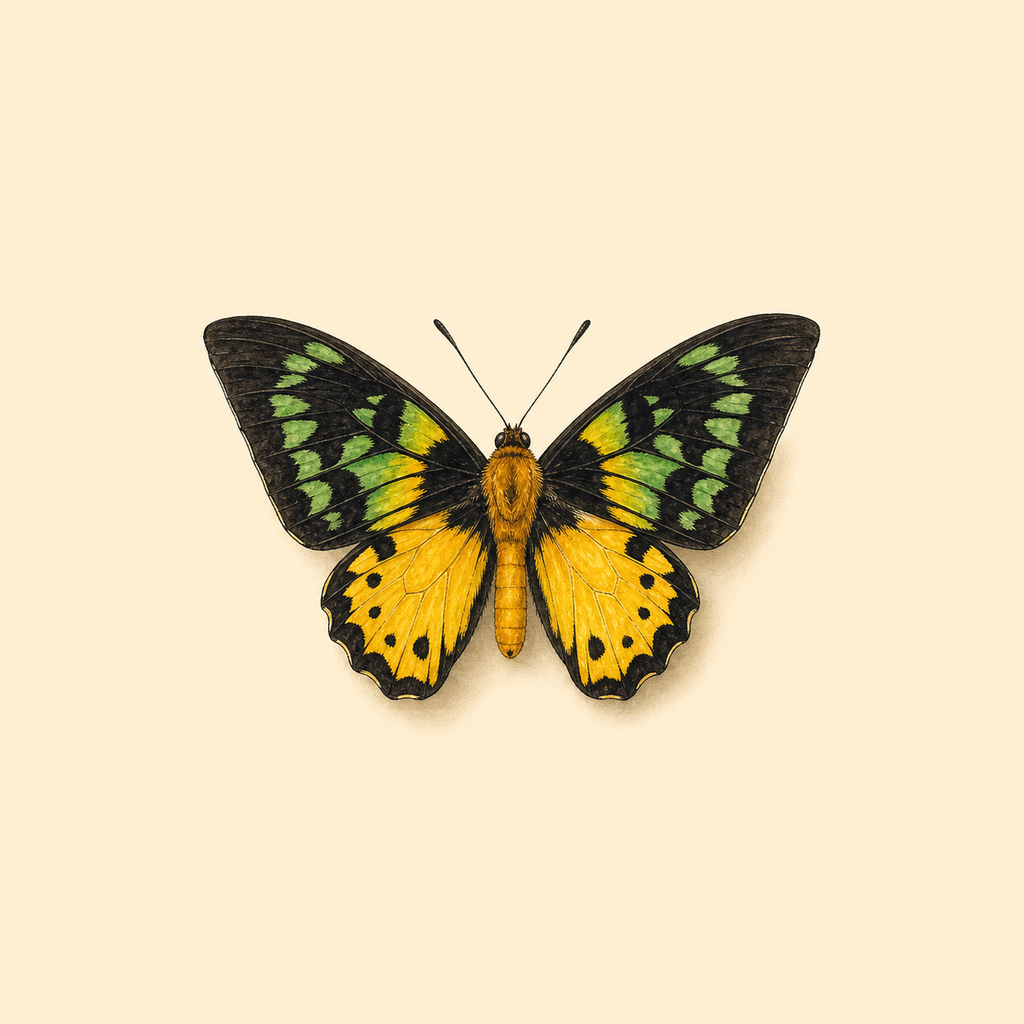
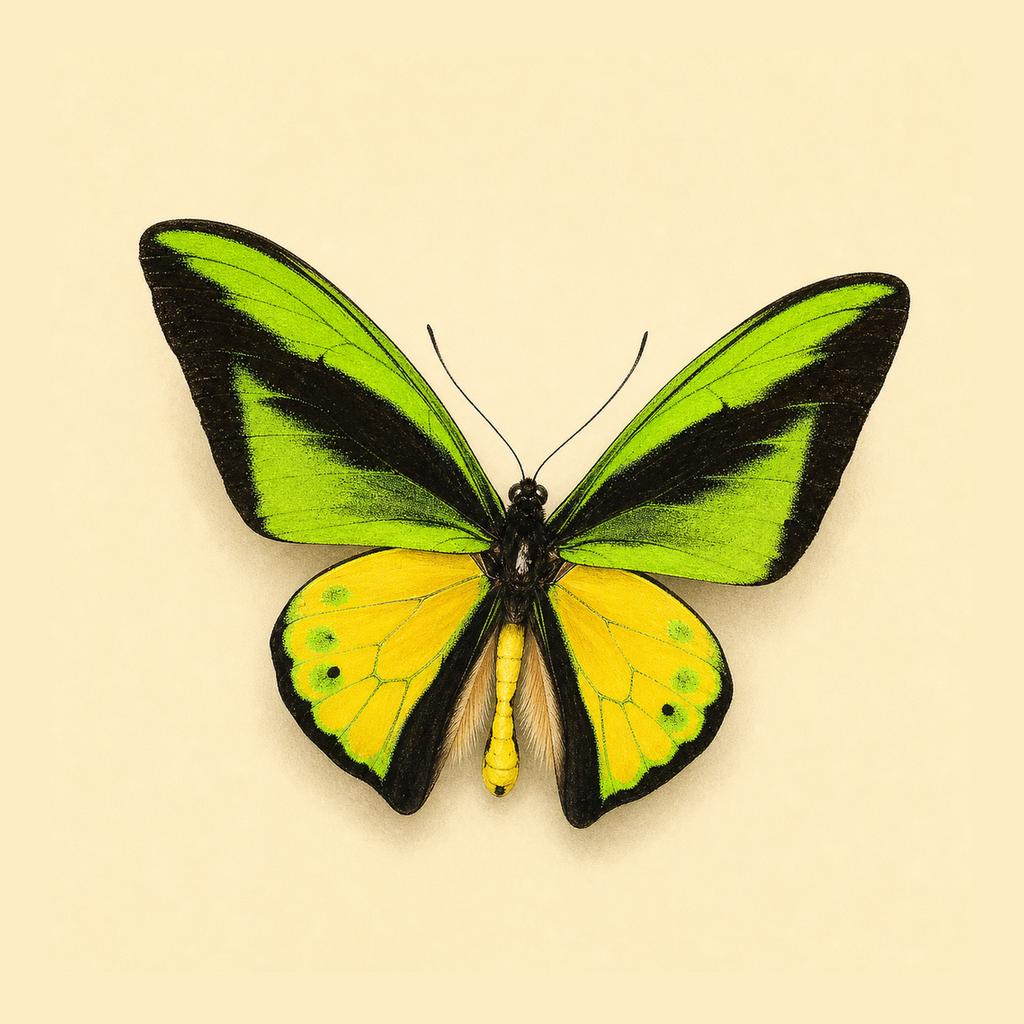
Regenerate picasso-bug + both birdwings true-to-life via photo grounding
- picasso-bug: real Sphaerocoris annulus (discrete ring-spots, not bullseye)
- queen-alexandras-birdwing: faithful male (green bands, emerald hindwings), drawn bigger
- goliath-birdwing: neon-green wedge + golden hindwings (was generic dark butterfly)
- All photo-grounded (image-to-image on real reference specimens)
- ANATOMY strings fixed in build_thumbnail_prompts.py + thumbnail_prompts.json
- Birdwings padded to clear circle crop; all 74 pass validate_bug.py

Changed region(s): [[0.125, 0.1875, 0.9062, 0.8438], [0.5625, 0.3125, 0.5938, 0.3438], [0.5312, 0.3438, 0.5625, 0.375]]

diff --git a/scripts/build_thumbnail_prompts.py b/scripts/build_thumbnail_prompts.py
@@ -52,7 +52,7 @@ ANATOMY = {
     "sunset-moth": "diurnal moth with iridescent rainbow wings showing bands of blue, green, gold, magenta, and crimson, long tails on hindwings, looks more like a butterfly",
     "bee-fly": "fluffy round bumblebee-mimicking fly, golden-orange and black fuzzy body, very long needle-like proboscis extending forward, large clear wings, hovering posture",
     "blue-morpho": "large butterfly with wings spread flat, upper wing surfaces brilliant iridescent metallic electric blue with thin black borders, slender dark body, antennae like fine clubbed wires, wings catch light with structural shimmer",
-    "queen-alexandras-birdwing": "enormous butterfly held at a gentle 3/4 dorsal tilt with wingtips angled downward and curved inward (NOT spread flat corner-to-corner), broad rounded forewings velvet black with cream and golden-yellow zigzag bands, hindwings rich green with gold central patches, plump cream-yellow body, drawn SMALL in frame with generous cream margin so the wide wingspan stays well inside the circle",
+    "queen-alexandras-birdwing": "large male birdwing (Ornithoptera alexandrae) held at a gentle 3/4 dorsal tilt with the long tapered forewings swept downward and curved inward (NOT spread flat corner-to-corner); forewings mostly black crossed by an iridescent yellow-green upper band and a blue-green lower band with a long black oval patch; broader scalloped hindwings emerald-green to turquoise divided by strong black radiating veins with broad black margins; long bright yellow segmented abdomen, black thorax, thin curved black antennae; drawn medium-sized (about 60 percent of frame) with even cream margin so the whole wingspan stays comfortably inside the circle",
     "goliath-birdwing": "large male butterfly held at a gentle angle with wingtips curved inward and downward (NOT spread flat corner-to-corner), deep velvet black wings with brilliant neon yellow-green wedge patches on hindwings and forewing centers, golden-yellow body, broad muscular thorax, drawn SMALL in frame with generous cream margin so the wide wingspan stays well inside the circle",
     "apollo-butterfly": "medium butterfly with wings spread flat, translucent porcelain-white wings with smoky-gray veining, four prominent crimson-red eyespots ringed in black on the hindwings, white fluffy body, alpine elegance",
     "sylphina-angel": "small delicate butterfly with wings spread flat, forewings nearly transparent crystal-clear with dark veins, hindwings carry two slim ribbon-like crimson tail streamers trailing below, tiny dark body, ethereal almost weightless appearance",
@@ -64,7 +64,7 @@ ANATOMY = {
     "orchid-mantis": "praying mantis mimicking a flower, white blushed with pink, flattened lobed petal-like legs, raised spiny forelegs, triangular head, delicate blossom appearance, limbs gathered inward",
     "giant-prickly-stick-insect": "bulky thorny stick insect, body and legs studded with spines, curled abdomen held scorpion-like over the back, mottled brown camouflage, heavy-bodied, coiled compactly rather than splayed",
     "jewel-caterpillar": "translucent gelatinous caterpillar covered in glassy gel-like spiky tubercles, faint orange-yellow body glowing through the clear spines, looks like a living cluster of gummy beads",
-    "picasso-bug": "shield bug with a rounded domed back brightly patterned with concentric rings and dots in green, orange, black and cream like abstract art, small head, six short legs tucked in",
+    "picasso-bug": "jewel/shield bug (Sphaerocoris annulus) with a smooth domed oval scutellum in a glossy pale cream-to-teal ground, decorated with about eleven DISCRETE oval ring-spots scattered across it — each spot a turquoise center inside a narrow orange-red ring edged in dark navy (NOT concentric nested bullseye targets), plus wavy teal-and-red scalloped stripes across the front/shoulder band, small dark head tucked under, thin dark banded antennae, six short dark legs tucked in, dorsal view from directly above",
     "stalk-eyed-fly": "small slender fly whose eyes sit on the ends of two long thin horizontal eyestalks spreading sideways from the head, dark narrow body, clear wings; pose the eyestalks angled slightly so the whole span stays inside the circle",
     "spiny-flower-mantis": "small mantis, white-and-green body with a bold swirl eyespot on each forewing, spiny thorax and legs, raised raptorial forelegs, flower-mimic posture, limbs drawn inward",
     "monarch-butterfly": "butterfly with wings spread flat, bright orange wings veined and bordered in black with rows of white dots along the margins, slender black body, classic showy pattern, wingtips kept clear of the edge",
